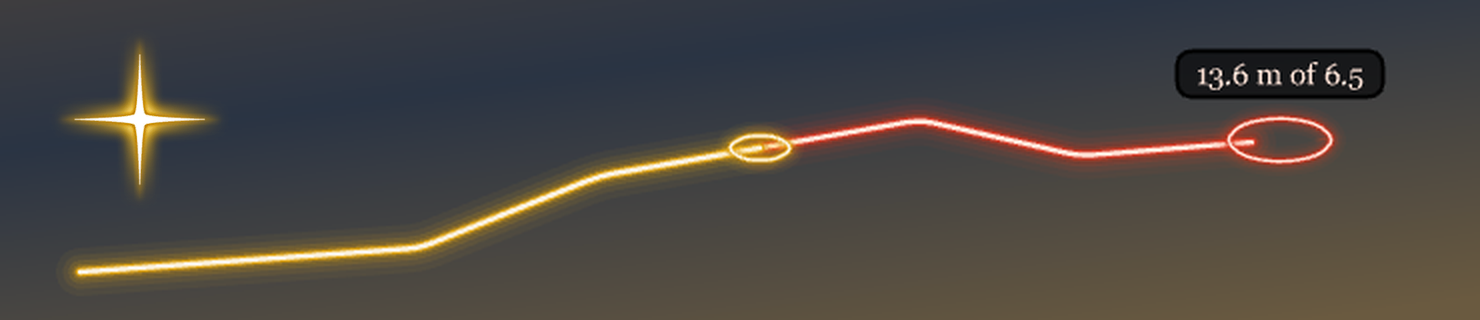
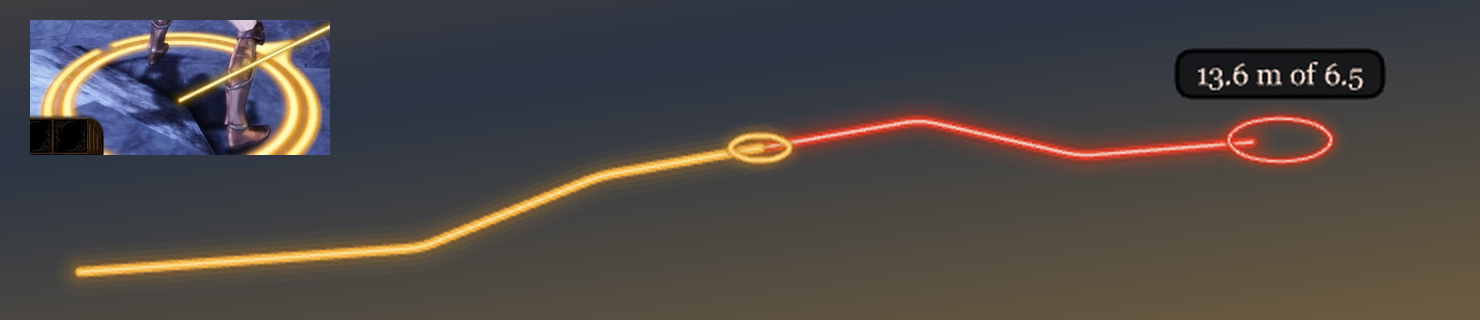
The preview's line in the selection ring's gold
The user: "it still looks kind of yellowish rather than the same gold
as the circle around the character selected". Measured in the game's
own picture, the ring under Lyna reads 0xE9BA5F to 0xEBC67C and the
line beside it 0xCBB475, paler and greener: its heart was near white
and half its width, after the movement marker's star. Now an
orange-gold body, a thin pale-gold highlight and an orange glow.

The movie alone; its tests pass and its sample was seen in Ruffle
beside the ring cut from the game's picture. Not seen in play.

Claude-Session: https://claude.ai/code/session_01SHrV5jHcG2TiBdHZ1wfhrC

diff --git a/dev/UI.md b/dev/UI.md
@@ -130,12 +130,12 @@ On a party member's turn, while the game waits for its order and the cursor is o
 - **The end is the game's own marker, on the ground** (the user, 2026-10-01: "the game has its own marker for indicating where to walk. Can we use that? And make the line match that style"; and of a star the movie drew over the scene, "we should draw the indicator on the ground, not flat on the screen, which looks weird"): `vfx_base` row 30000, "Movement Indicator", the effect the game puts where a move click lands (model `SR_MOV`, beside the selection rings' `SR_PTY` and `SR_EMY`; its art `vfx_movetarget.dds`, a four-pointed star, and `vfx_movearrow.dds`, in `textures.erf`). The plugin places it in the world at the path's end (DAOLib's `dao/Vfx.h`: `Place`, `Move`, `Remove`), moves it after the cursor and takes it away with the preview. It is left out of the cursor's pick (`SetPickable`, DAOLib `95d1c8e`), since its model is a selection reticle with a shape the cursor's ray meets and it sits under the cursor. Only where the move would go: past the movement left it would say "it will walk here" of a move the machine refuses. If it cannot be placed, the movie draws a gold ring there.
 - **Nothing of the movie's is there for the mouse.** Before the game looks at what the cursor's ray met, it asks its interface whether the mouse is over a movie's shape, and if so the cursor has no ground and a click is the interface's (read by lib-agent from the mode's pick, `0x0070EAA0`). The preview's end is under the cursor. With the line drawn 49 pixels low nothing was (play test 15: steady, and a click walked); drawn where it belongs, the cursor's ground read a point and nothing by turns (about half of 80 reads at every end drawn, straight path or searched alike, and never where nothing was drawn), the preview blinked, and moves were lost, eight clicks of eight on one build (play test 16). So the preview's clip has `hitTestDisable`, Scaleform's own extension (`_global.gfxExtensions`), as nothing of it is to be clicked. And should that not hold, the line ends 14 pixels short of the cursor's pixel, half its widest glow and two, so that no shape of the movie's lies on it: the marker is the world's, the too-far ring goes round it, the plate is above it.
 - **The line is the route.** Straight from point to point, with only the last few pixels at each corner rounded: curved from middle to middle, a long step's corner was drawn a meter inside the route, as if the walk cut through what it goes round. And the route is the walk's: when the creature a path was shown for walks within a moment of it, where it is each frame is measured against the path shown (`PathApart`, `src/core/Preview.h`), and when it stands again the log says how far from it the walk went at most; more than half a meter is a stray, said at info. Not point against point: the creature's own path is only the next waypoint or two, worked out a stretch at a time as it goes (lib-agent), where the preview's is the whole way at once. By design the two may differ a little: a later stretch is worked out later, so another creature moving in between changes it (on a turn, nobody does); and where the start or the end is not free each is nudged to the nearest free point in its own way.
-- **The look** (the user, the same day, of the first build's plain line and dots: "a glowing golden line that fits the game UI instead of something drawn by a 6-year-old"): the marker's own colours, measured from its texture: near white at the heart (0xF7EFDE), a deep gold at the heart's edge (0xDEA210 to 0xE6B02D), an amber glow fading out (0xFFB300). GFx 3 has no filters for shapes, so the glow is the line drawn several times, wide and faint to narrow and bright: the amber halo, the gold, and the white heart; red the same made red. The two rings of a path too far lie on the ground as the game's own selection ring does: the plugin places sixteen points of each on the screen (`RingAround`, then `ToScreen`), so the camera's angle flattens them as it flattens that ring.
+- **The look** (the user, 2026-10-01, of the first build's plain line and dots: "a glowing golden line that fits the game UI instead of something drawn by a 6-year-old"; and of a line in the marker's colours, white at its heart, "it still looks kind of yellowish rather than the same gold as the circle around the character selected"): the selection ring's gold, measured in the game's own picture: the ring under Lyna reads 0xE9BA5F to 0xEBC67C with highlights 0xFEEFA2, where that line read 0xCBB475, paler and greener (the ring's art, `vfx_selparty.dds`, is 0xAA7423 with highlights 0xCEA24A, lit by the scene). So an orange-gold body, a thin pale-gold highlight and an orange glow. GFx 3 has no filters for shapes, so the glow is the line drawn several times, wide and faint to narrow and bright; red the same made red. The two rings of a path too far lie on the ground as the game's own selection ring does: the plugin places sixteen points of each on the screen (`RingAround`, then `ToScreen`), so the camera's angle flattens them as it flattens that ring.
 - **Drawn** by the turn bar's movie, under the bar: it asks `TB_GetPreview` every frame and gets one string, the head (version, the view's size in pixels, the state, the two lengths), two lines of points and two rings, in pixels of the view (`src/core/Preview.h`). The stage lies over the view whole and centred (`showAll`): a pixel is a stage point by one scale and an offset, by the stage's own size, 1280 by 720, which the script holds as numbers. Seen in play (the fifteenth play test, a 1600 by 1000 view): the bar's cards lie where that puts them; and `Stage.height` there is not the stage's 720 but the view's height in stage units, 800, by which the first build drew the line 49 pixels low at every point.
 
 ![The movie's sample preview under the bar, as Ruffle draws it (2026-10-01): gold to where the movement runs out, red beyond](images/turnorder-preview-sample.png)
 
-![A path too far, with the game's marker's texture pasted in at the left to compare the colours](images/turnorder-preview-zoom.png)
+![A path too far, with the selection ring cut from the game's own picture at the left to compare the gold (the line across it there is the earlier, yellower one)](images/turnorder-preview-zoom.png)
 
 ![In the game: the marker on the ground at an end in reach (play test 16, on the build whose drawing still took the cursor's ground)](images/preview-star-in-reach-2026-10-01-16.jpg)
 
